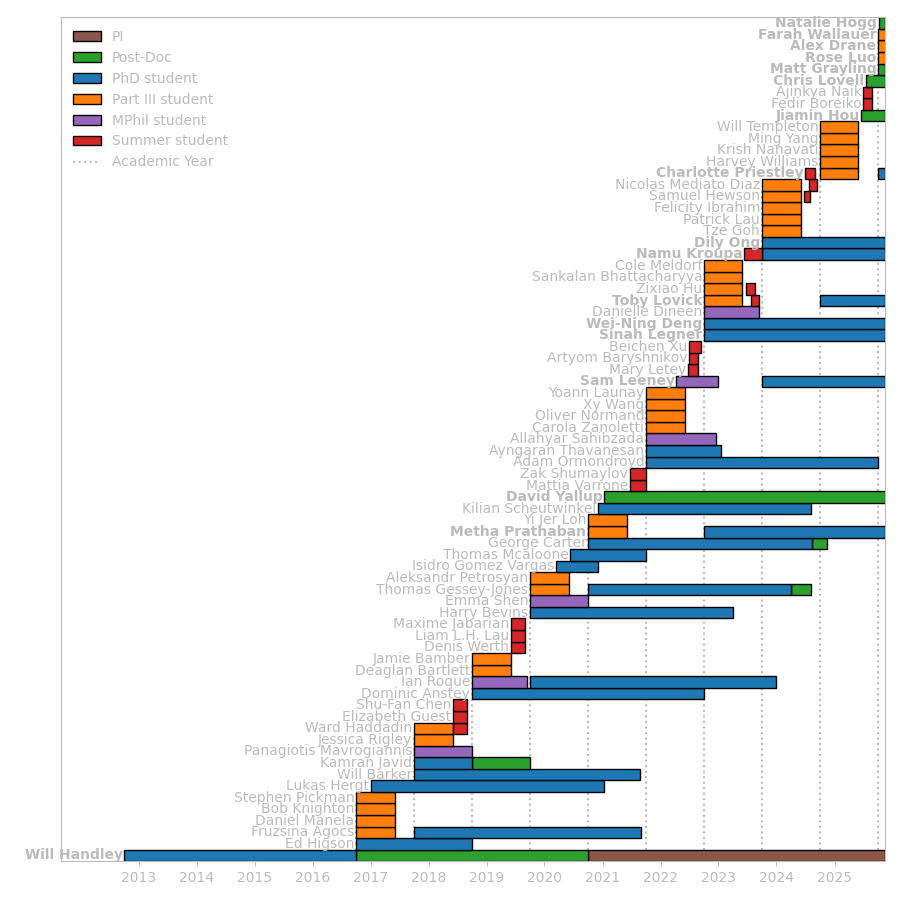
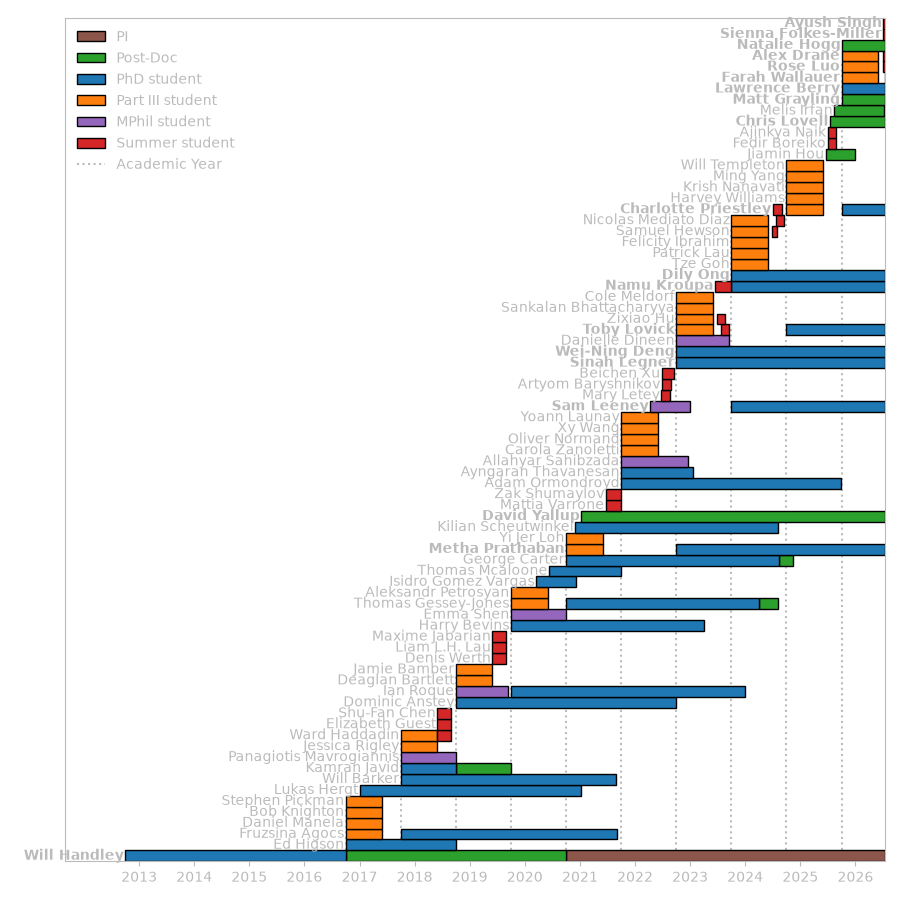
Update group for summer 2026: Melis Irfan + four summer students (#16)
* Update group for summer 2026: add Melis Irfan, four summer students

- Melis Irfan (CamCEAD postdoc, buy-out collaboration on B-GSM):
  Aug 2025 - Jul 2026, now left academia
- Summer 2026 students (all started 2026-07-06): Rose Luo and Alex
  Drane (continuing from Part III, group-funded write-up placements),
  Sienna Folkes-Miller (Durham, CamREPP/IoA programme, GW Hubble
  inference), Ayush Singh (BIT Mesra, visiting student, GW Hubble
  inference with David Yallup)
- Regenerate group.html and group.png via script/calculate

* Farah Wallauer PhD from Oct 2026; James Alvey co-supervises Farah and Lawrence

- Add Farah's phd entry (start 2026-10-01, supervisors Handley & Alvey)
  and remove her from the html_table ignore list; the table classes her
  as future until 1 Oct, when her card appears automatically
- Add James Alvey to Lawrence Berry's supervisor list

---------

diff --git a/assets/group/group.html b/assets/group/group.html
@@ -212,7 +212,7 @@
       </p>
       <p>
         <ul>
-          <li>PhD student from Oct 2025<ul><li>co-supervised with <a href="https://schoeneberg.github.io/">Nils Schoneberg</a>, <a href="https://astro.univie.ac.at/en/research/research-groups/hahn-data-science-in-astrophysics-and-cosmology/">Oliver Hahn</a></li></ul></li>
+          <li>PhD student from Oct 2025<ul><li>co-supervised with <a href="https://www.kicc.cam.ac.uk/staff/dr-james-alvey">James Alvey</a>, <a href="https://schoeneberg.github.io/">Nils Schoneberg</a>, <a href="https://astro.univie.ac.at/en/research/research-groups/hahn-data-science-in-astrophysics-and-cosmology/">Oliver Hahn</a></li></ul></li>
           <li>Links:</li>
           <ul>
             <li>
@@ -462,6 +462,7 @@
       <p>
         <ul>
           <li>Part III student from Oct 2025 to Jun 2026<ul></ul></li>
+          <li>Summer student from Jul 2026<ul></ul></li>
         </ul>
       </p>
     </div>
@@ -475,6 +476,53 @@
       <p>
         <ul>
           <li>Part III student from Oct 2025 to Jun 2026<ul><li>co-supervised with Namu Kroupa</li></ul></li>
+          <li>Summer student from Jul 2026<ul><li>co-supervised with Namu Kroupa</li></ul></li>
+        </ul>
+      </p>
+    </div>
+  </div>
+</div>
+<div class="wrapper" style="margin-top:30pt">
+  <h1>Summer students</h1>
+  <div class="grid">
+    <div class="grid-item">
+      <img src="/assets/images/user.png" />
+    </div>
+    <div class="grid-item">
+      <p>
+        <font size="+2">Sienna Folkes-Miller</font>
+      </p>
+      <p>
+        <ul>
+          <li>Summer student from Jul 2026<ul></ul></li>
+        </ul>
+      </p>
+    </div>
+    <div class="grid-item">
+      <img src="/assets/images/user.png" />
+    </div>
+    <div class="grid-item">
+      <p>
+        <font size="+2">Ayush Singh</font>
+      </p>
+      <p>
+        <ul>
+          <li>Summer student from Jul 2026<ul><li>co-supervised with David Yallup</li></ul></li>
+          <li>Group research papers:</li>
+          <ul>
+            <li>
+              <a href="https://arxiv.org/abs/2312.08828">On the Constraints on Superconducting Cosmic Strings from 21-cm  Cosmology</a>
+            </li>
+            <li>
+              <a href="https://arxiv.org/abs/2301.03298">Joint analysis constraints on the physics of the first galaxies with low  frequency radio astronomy data</a>
+            </li>
+            <li>
+              <a href="https://arxiv.org/abs/2212.00464">Astrophysical Constraints from the SARAS3 non-detection of the Cosmic  Dawn Sky-Averaged 21-cm Signal</a>
+            </li>
+            <li>
+              <a href="https://arxiv.org/abs/2201.11531">A Comprehensive Bayesian re-analysis of the SARAS2 data from the Epoch  of Reionization</a>
+            </li>
+          </ul>
         </ul>
       </p>
     </div>
@@ -483,6 +531,29 @@
 <div class="wrapper" style="margin-top:30pt">
   <h1>Past Post-Docs</h1>
   <div class="grid">
+    <div class="grid-item">
+      <img src="/assets/images/user.png" />
+    </div>
+    <div class="grid-item">
+      <p>
+        <font size="+2">Melis Irfan</font>
+      </p>
+      <p>
+        <ul>
+          <li>Post-Doc from Aug 2025 to Jul 2026<ul></ul></li>
+          <li>Links:</li>
+          <ul>
+            <li>
+              <a href='https://github.com/melisirfan'>GitHub</a>
+            </li>
+          </ul>
+          <li>Subsequent career:</li>
+          <ul>
+            <li>Jul 2026: Left academia</li>
+          </ul>
+        </ul>
+      </p>
+    </div>
     <div class="grid-item">
       <img src="/assets/group/images/jiamin_hou.jpg" />
     </div>
@@ -605,8 +676,8 @@
           </ul>
           <li>Subsequent career:</li>
           <ul>
-            <li>Jan 2023: Quantitative Research & Development (systematic trading), ADIA, United Arab Emirates</li>
-            <li>Oct 2019: AI Researcher (systematic trading), Arabesque AI, London</li>
+            <li>Oct 2019: <a href="https://www.linkedin.com/in/kamranjavid91">AI Researcher (systematic trading), Arabesque AI</a>, London</li>
+            <li>Jan 2023: <a href="https://theorg.com/org/abu-dhabi-investment-authority/org-chart/kamran-javid">Quantitative Research & Development (systematic trading), ADIA</a>, United Arab Emirates</li>
           </ul>
         </ul>
       </p>
@@ -656,7 +727,7 @@
           </ul>
           <li>Subsequent career:</li>
           <ul>
-            <li>Oct 2025: Data Scientist at PolyChord Ltd</li>
+            <li>Oct 2025: <a href="https://www.linkedin.com/in/adam-ormondroyd/">Data Scientist at PolyChord Ltd</a></li>
           </ul>
         </ul>
       </p>
@@ -713,7 +784,7 @@
           </ul>
           <li>Subsequent career:</li>
           <ul>
-            <li>Sep 2024: TRGC (Venture fund focussed on digital assets)</li>
+            <li>Sep 2024: <a href="https://www.linkedin.com/in/kilianhscheutwinkel/">TRGC (Venture fund focussed on digital assets)</a></li>
           </ul>
         </ul>
       </p>
@@ -730,7 +801,7 @@
           <li>PhD student from Jun 2020 to Sep 2021<ul><li>co-supervised with <a href="https://www.research.manchester.ac.uk/portal/keith.grainge.html">Keith Grainge</a>, <a href="https://www.yorksj.ac.uk/our-staff/staff-profiles/malak-olamaie.php">Malak Olamaie</a></li></ul></li>
           <li>Subsequent career:</li>
           <ul>
-            <li>Oct 2021: Data scientist (PolyChord Ltd)</li>
+            <li>Oct 2021: <a href="https://uk.linkedin.com/in/thomas-mcaloone">Data scientist (PolyChord Ltd)</a></li>
           </ul>
         </ul>
       </p>
@@ -962,7 +1033,7 @@
           <li>Subsequent career:</li>
           <ul>
             <li>Oct 2017: Goldman Sachs (UK finance)</li>
-            <li>May 2020: DE Shaw (US finance)</li>
+            <li>May 2020: <a href="https://www.linkedin.com/in/ejhigson">VP Quantitative Analyst, DE Shaw</a> (US finance)</li>
           </ul>
         </ul>
       </p>
@@ -1257,6 +1328,7 @@
           <li>Subsequent career:</li>
           <ul>
             <li>Oct 2022: Management consultancy</li>
+            <li>Jan 2025: <a href="https://www.linkedin.com/in/oliver-normand-44b486149/">Entrepreneurs First / AI Acquisition (AI tools startup)</a></li>
           </ul>
         </ul>
       </p>
@@ -1313,7 +1385,7 @@
           <li>Part III student from Oct 2020 to Jun 2021<ul><li>Thesis: Constructing Non-Linear Cosmological Tension Coordinate with Neural Networks</li></ul></li>
           <li>Subsequent career:</li>
           <ul>
-            <li>Oct 2021: Data Scientist, Spotify</li>
+            <li>Oct 2021: <a href="https://uk.linkedin.com/in/yi-jer-loh">Data Scientist, Spotify</a></li>
           </ul>
         </ul>
       </p>
@@ -1336,7 +1408,8 @@
           </ul>
           <li>Subsequent career:</li>
           <ul>
-            <li>Oct 2020: Lead cryptography engineer, Armenia</li>
+            <li>Oct 2020: <a href="https://medium.com/@soranews/hyperledger-iroha-2-let-it-shine-310291e8cd2e">Technical Lead, Hyperledger Iroha (Soramitsu)</a></li>
+            <li>Jan 2024: <a href="https://www.linkedin.com/in/alexander-petrosyan-50150abb/">Senior Distributed Systems Consultant, Eclipse Labs</a></li>
           </ul>
         </ul>
       </p>
@@ -1467,7 +1540,7 @@
           <ul>
             <li>Oct 2019: Msc Computational stats & ML, UCL</li>
             <li>Jan 2021: statistical/ML engineer at UCB Pharmaceuticals</li>
-            <li>Oct 2022: PhD in ML, Oxford</li>
+            <li>Oct 2022: <a href="https://www.stats.ox.ac.uk/people/daniel-de-vassimon-manela">PhD in ML, Oxford</a></li>
           </ul>
         </ul>
       </p>
@@ -1533,6 +1606,7 @@
           <li>Subsequent career:</li>
           <ul>
             <li>Oct 2022: MSc in Cyber Security in Edinburgh</li>
+            <li>Oct 2023: <a href="https://itarle.com/">Itarle (fintech, algorithmic trading)</a>, London</li>
           </ul>
         </ul>
       </p>
@@ -1556,6 +1630,8 @@
           <li>Subsequent career:</li>
           <ul>
             <li>Oct 2022: Physics in Birmingham</li>
+            <li>Oct 2025: MSc at Imperial College London</li>
+            <li>Oct 2026: Cavendish Laboratory, Cambridge</li>
           </ul>
         </ul>
       </p>
@@ -1600,6 +1676,10 @@
       <p>
         <ul>
           <li>Summer student from Jun 2021 to Sep 2021<ul></ul></li>
+          <li>Subsequent career:</li>
+          <ul>
+            <li>Oct 2022: PhD in Quantum Gravity & Cosmology, EPFL</li>
+          </ul>
         </ul>
       </p>
     </div>
@@ -1625,6 +1705,7 @@
           <li>Subsequent career:</li>
           <ul>
             <li>Oct 2022: PhD in machine learning, DAMTP</li>
+            <li>Jan 2026: <a href="https://www.linkedin.com/in/zakshumaylov/">Senior Researcher, Google DeepMind</a></li>
           </ul>
         </ul>
       </p>
@@ -1649,6 +1730,7 @@
           <ul>
             <li>Oct 2019: Masters in Sorbonne, Paris</li>
             <li>Oct 2021: PhD in Astrophysics, Paris (IAP & Sorbonne)</li>
+            <li>Jul 2025: Postdoc, Max Planck Institute for Physics, Munich</li>
           </ul>
         </ul>
       </p>
@@ -1692,6 +1774,7 @@
           <li>Subsequent career:</li>
           <ul>
             <li>Jan 2022: AI/Cybersecurity startup, Paris</li>
+            <li>Nov 2023: <a href="https://www.linkedin.com/in/maxime-jabarian/">Lead AI Engineer, Assurant</a></li>
           </ul>
         </ul>
       </p>
@@ -1736,6 +1819,7 @@
           <li>Subsequent career:</li>
           <ul>
             <li>Oct 2019: PhD in Cosmology, Harvard</li>
+            <li>Jan 2024: Postdoc, Columbia University Astrophysics</li>
           </ul>
         </ul>
       </p>

diff --git a/assets/group/html_table.py b/assets/group/html_table.py
@@ -33,7 +33,7 @@ css = """
 }
 """
 
-ignore = ["George Carter", "Stephen Pickman", "Patrick Lau", "Samuel Hewson", "Nicolas Mediato Diaz", "Farah Wallauer", "Ajinkya Naik"]
+ignore = ["George Carter", "Stephen Pickman", "Patrick Lau", "Samuel Hewson", "Nicolas Mediato Diaz", "Ajinkya Naik"]
 
 with open(html_file, 'w') as f:
     doc = Doc()
